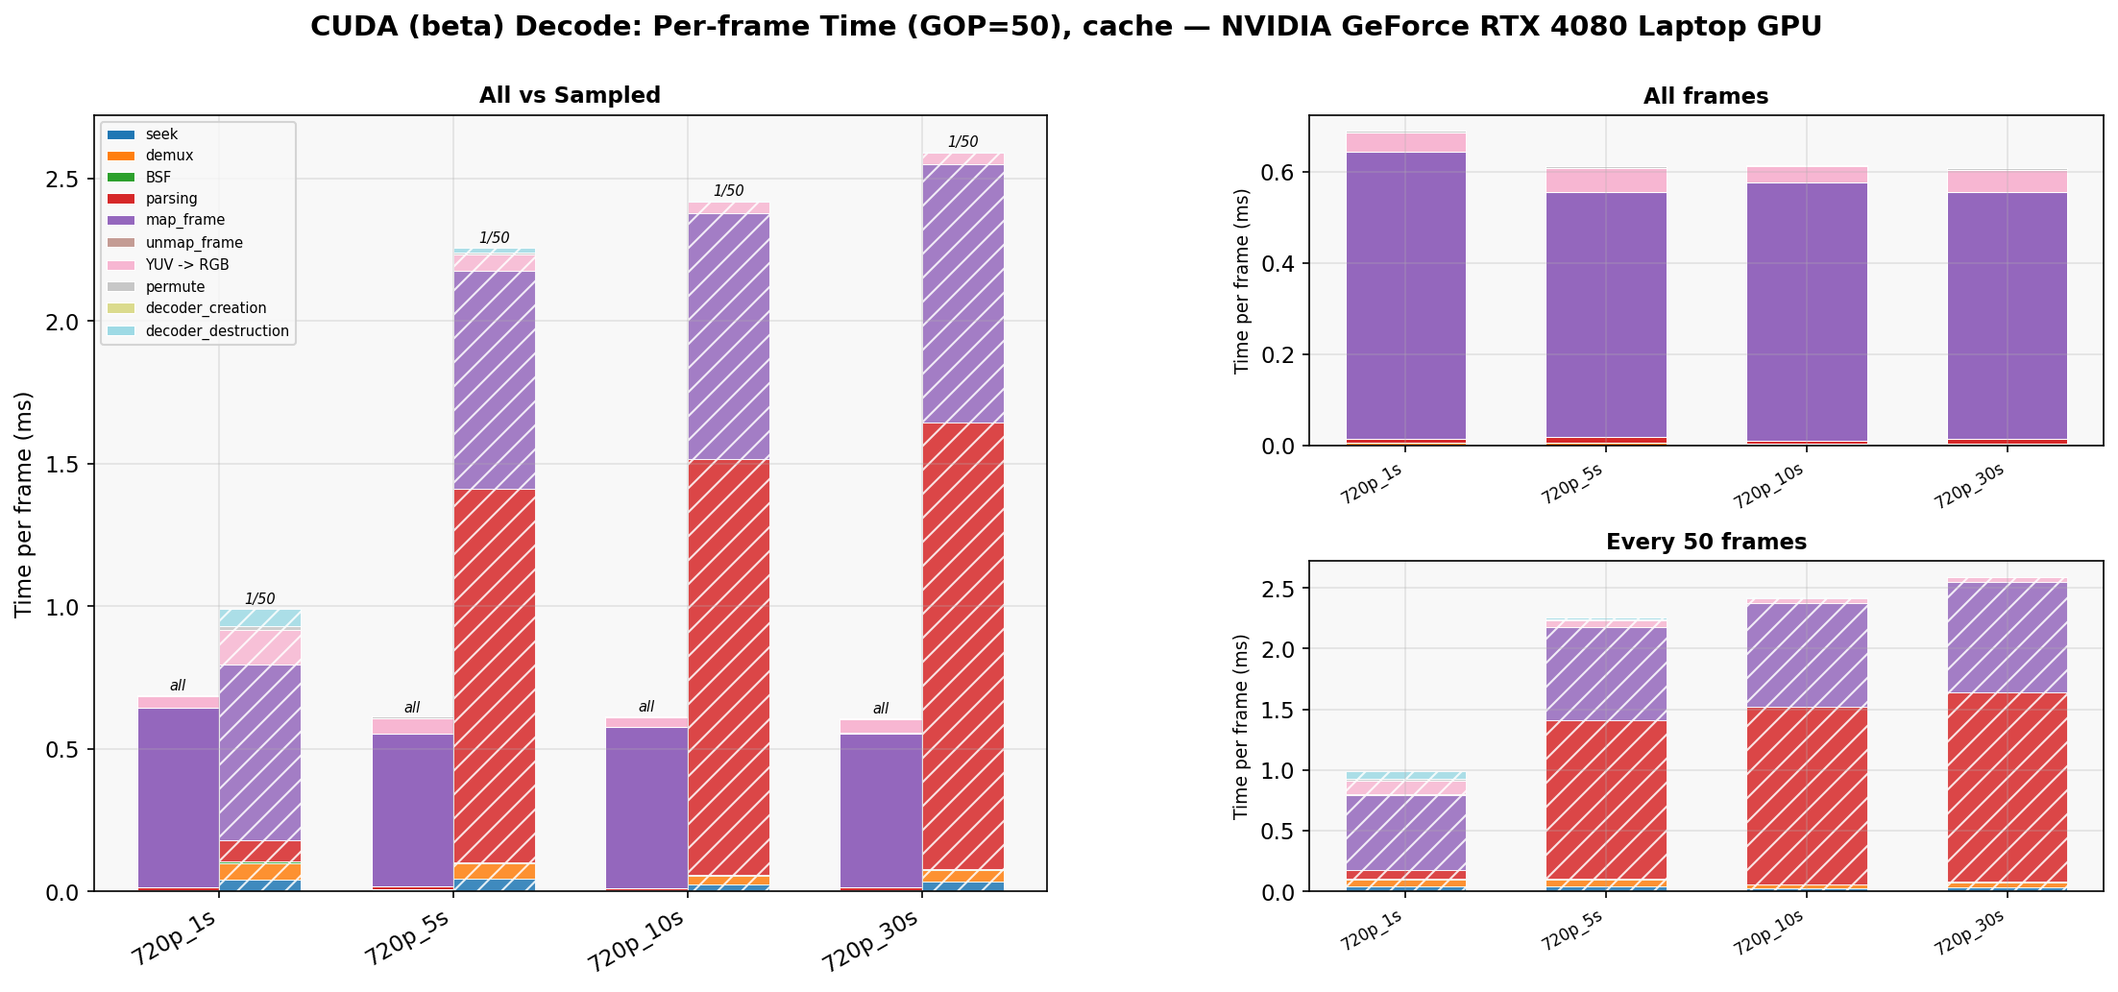
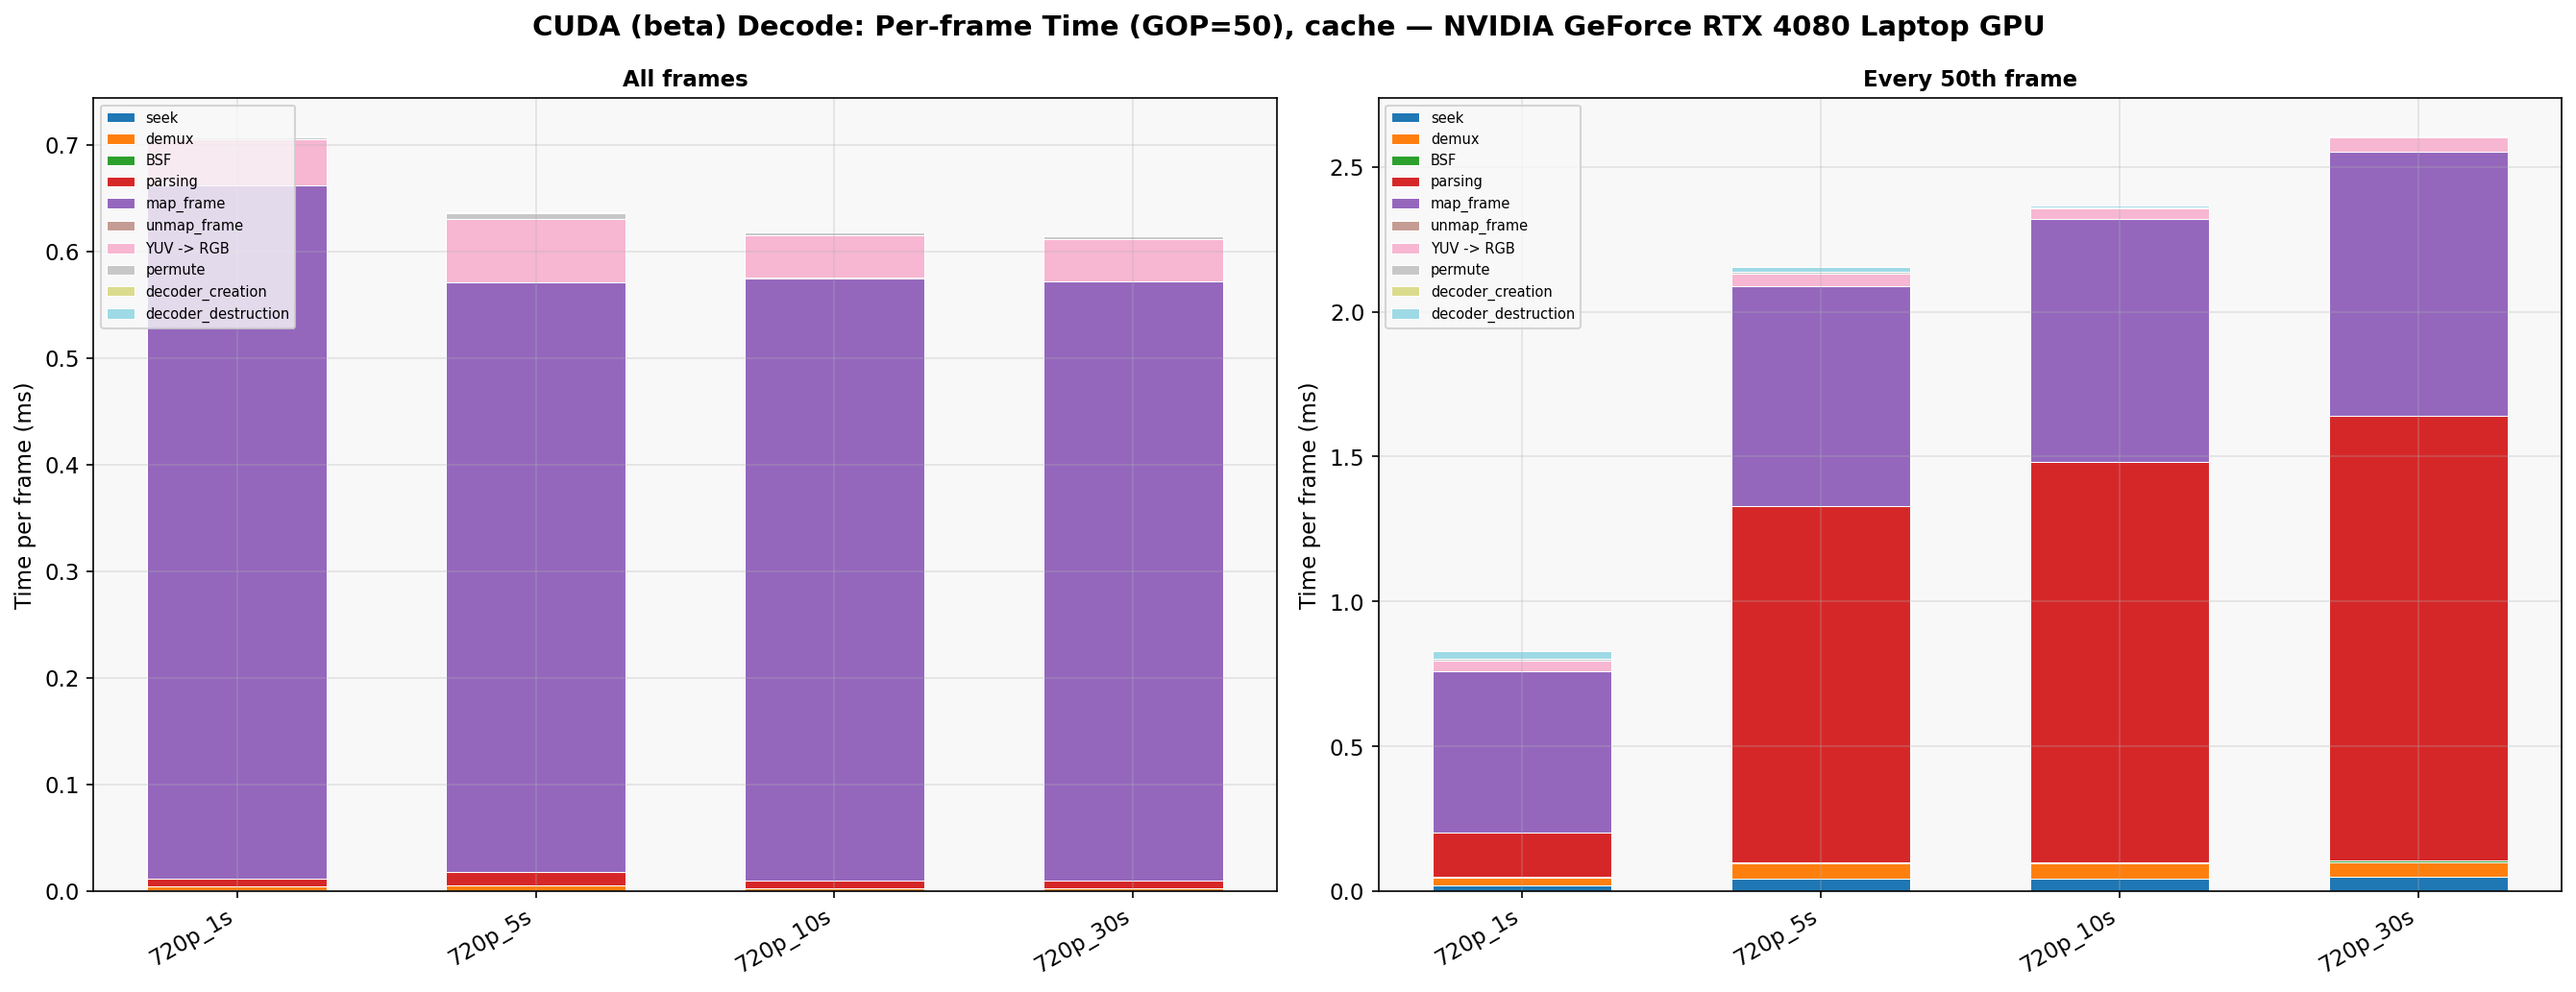
better plots

diff --git a/benchmarks/decoders/run_benchmark_suite.py b/benchmarks/decoders/run_benchmark_suite.py
@@ -154,102 +154,58 @@ def run_one(video_path, device, use_beta=False, sampling="all", step=50,
     return averaged, num_frames_decoded
 
 
-def _make_stacked_bar_trio(
+def _make_stacked_bar_pair(
     fig, all_results, step_results, labels, leaf_categories, cmap, step,
     value_fn, title, ylabel,
 ):
-    """Draw 3 subplots: left = all+step side-by-side, top-right = all only, bottom-right = step only (own scale).
+    """Draw 2 side-by-side subplots: left = all frames, right = every Nth frame (own scale).
 
     leaf_categories: dict mapping cpp_timer_name -> display_name
     """
     import numpy as np
-    from matplotlib.gridspec import GridSpec
 
-    gs = GridSpec(2, 2, figure=fig, width_ratios=[1.2, 1], hspace=0.35, wspace=0.3)
-    ax_main = fig.add_subplot(gs[:, 0])
-    ax_all = fig.add_subplot(gs[0, 1])
-    ax_step = fig.add_subplot(gs[1, 1])
+    ax_all, ax_step = fig.subplots(1, 2)
 
     cat_items = list(leaf_categories.items())
     x = np.arange(len(labels))
-    w = 0.35
 
-    # --- Main plot: side-by-side ---
-    bottoms_all = np.zeros(len(labels))
-    for ci, (cpp_name, display_name) in enumerate(cat_items):
-        vals = []
-        for l in labels:
-            r, nf = all_results[l]
-            total_ms = r[cpp_name][0] if cpp_name in r else 0
-            vals.append(value_fn(total_ms, nf))
-        vals = np.array(vals)
-        ax_main.bar(
-            x - w / 2, vals, w, bottom=bottoms_all,
-            label=display_name, color=cmap[ci], edgecolor="white", linewidth=0.5,
-        )
-        bottoms_all += vals
-
-    bottoms_step = np.zeros(len(labels))
-    for ci, (cpp_name, display_name) in enumerate(cat_items):
-        vals = []
-        for l in labels:
-            r, nf = step_results[l]
-            total_ms = r[cpp_name][0] if cpp_name in r else 0
-            vals.append(value_fn(total_ms, nf))
-        vals = np.array(vals)
-        ax_main.bar(
-            x + w / 2, vals, w, bottom=bottoms_step,
-            color=cmap[ci], edgecolor="white", linewidth=0.5,
-            hatch="//", alpha=0.85,
-        )
-        bottoms_step += vals
-
-    for i in range(len(labels)):
-        ax_main.text(x[i] - w / 2, bottoms_all[i] + bottoms_all.max() * 0.01,
-                     "all", ha="center", va="bottom", fontsize=7, fontstyle="italic")
-        ax_main.text(x[i] + w / 2, bottoms_step[i] + bottoms_all.max() * 0.01,
-                     f"1/{step}", ha="center", va="bottom", fontsize=7, fontstyle="italic")
-
-    ax_main.set_xticks(x)
-    ax_main.set_xticklabels(labels, rotation=30, ha="right")
-    ax_main.set_ylabel(ylabel)
-    ax_main.set_title("All vs Sampled", fontsize=11, fontweight="bold")
-    ax_main.legend(loc="upper left", fontsize=7, ncol=1)
-
-    # --- Top-right: all only ---
+    # --- Left: all frames ---
     bottoms = np.zeros(len(labels))
-    for ci, (cpp_name, _) in enumerate(cat_items):
+    for ci, (cpp_name, display_name) in enumerate(cat_items):
         vals = []
         for l in labels:
             r, nf = all_results[l]
             total_ms = r[cpp_name][0] if cpp_name in r else 0
             vals.append(value_fn(total_ms, nf))
         vals = np.array(vals)
-        ax_all.bar(x, vals, 0.6, bottom=bottoms, color=cmap[ci], edgecolor="white", linewidth=0.5)
+        ax_all.bar(x, vals, 0.6, bottom=bottoms, label=display_name,
+                   color=cmap[ci], edgecolor="white", linewidth=0.5)
         bottoms += vals
 
     ax_all.set_xticks(x)
-    ax_all.set_xticklabels(labels, rotation=30, ha="right", fontsize=8)
-    ax_all.set_ylabel(ylabel, fontsize=9)
+    ax_all.set_xticklabels(labels, rotation=30, ha="right")
+    ax_all.set_ylabel(ylabel)
     ax_all.set_title("All frames", fontsize=11, fontweight="bold")
+    ax_all.legend(loc="upper left", fontsize=7, ncol=1)
 
-    # --- Bottom-right: step only (own scale) ---
+    # --- Right: every Nth frame (own scale) ---
     bottoms = np.zeros(len(labels))
-    for ci, (cpp_name, _) in enumerate(cat_items):
+    for ci, (cpp_name, display_name) in enumerate(cat_items):
         vals = []
         for l in labels:
             r, nf = step_results[l]
             total_ms = r[cpp_name][0] if cpp_name in r else 0
             vals.append(value_fn(total_ms, nf))
         vals = np.array(vals)
-        ax_step.bar(x, vals, 0.6, bottom=bottoms, color=cmap[ci], edgecolor="white", linewidth=0.5,
-                    hatch="//", alpha=0.85)
+        ax_step.bar(x, vals, 0.6, bottom=bottoms, label=display_name,
+                    color=cmap[ci], edgecolor="white", linewidth=0.5)
         bottoms += vals
 
     ax_step.set_xticks(x)
-    ax_step.set_xticklabels(labels, rotation=30, ha="right", fontsize=8)
-    ax_step.set_ylabel(ylabel, fontsize=9)
-    ax_step.set_title(f"Every {step} frames", fontsize=11, fontweight="bold")
+    ax_step.set_xticklabels(labels, rotation=30, ha="right")
+    ax_step.set_ylabel(ylabel)
+    ax_step.set_title(f"Every {step}th frame", fontsize=11, fontweight="bold")
+    ax_step.legend(loc="upper left", fontsize=7, ncol=1)
 
     fig.suptitle(title, fontsize=14, fontweight="bold")
 
@@ -284,7 +240,7 @@ def make_plots(cpu_all, cpu_step, cuda_all, cuda_step, output_dir, step, labels,
         cpu_cmap = plt.cm.Set2(np.linspace(0, 1, len(CPU_LEAF_CATEGORIES)))
 
         fig = plt.figure(figsize=(18, 6))
-        _make_stacked_bar_trio(
+        _make_stacked_bar_pair(
             fig, cpu_all, cpu_step, labels, CPU_LEAF_CATEGORIES, cpu_cmap, step,
             per_frame, f"CPU Decode: Per-frame Time Breakdown {gop_info}", "Time per frame (ms)",
         )
@@ -297,7 +253,7 @@ def make_plots(cpu_all, cpu_step, cuda_all, cuda_step, output_dir, step, labels,
 
         # ─── CPU breakdown: total time ───
         fig = plt.figure(figsize=(18, 6))
-        _make_stacked_bar_trio(
+        _make_stacked_bar_pair(
             fig, cpu_all, cpu_step, labels, CPU_LEAF_CATEGORIES, cpu_cmap, step,
             total_time, f"CPU Decode: Total Time Breakdown {gop_info}", "Total time (ms)",
         )
@@ -313,7 +269,7 @@ def make_plots(cpu_all, cpu_step, cuda_all, cuda_step, output_dir, step, labels,
         cuda_cmap = plt.cm.tab20(np.linspace(0, 1, len(CUDA_LEAF_CATEGORIES)))
 
         fig = plt.figure(figsize=(18, 7))
-        _make_stacked_bar_trio(
+        _make_stacked_bar_pair(
             fig, cuda_all, cuda_step, labels, CUDA_LEAF_CATEGORIES, cuda_cmap, step,
             per_frame, f"CUDA (beta) Decode: Per-frame Time {gop_info}{cache_info} — {gpu_name}",
             "Time per frame (ms)",
@@ -327,7 +283,7 @@ def make_plots(cpu_all, cpu_step, cuda_all, cuda_step, output_dir, step, labels,
 
         # ─── CUDA breakdown: total time ───
         fig = plt.figure(figsize=(18, 7))
-        _make_stacked_bar_trio(
+        _make_stacked_bar_pair(
             fig, cuda_all, cuda_step, labels, CUDA_LEAF_CATEGORIES, cuda_cmap, step,
             total_time, f"CUDA (beta) Decode: Total Time {gop_info}{cache_info} — {gpu_name}",
             "Total time (ms)",
